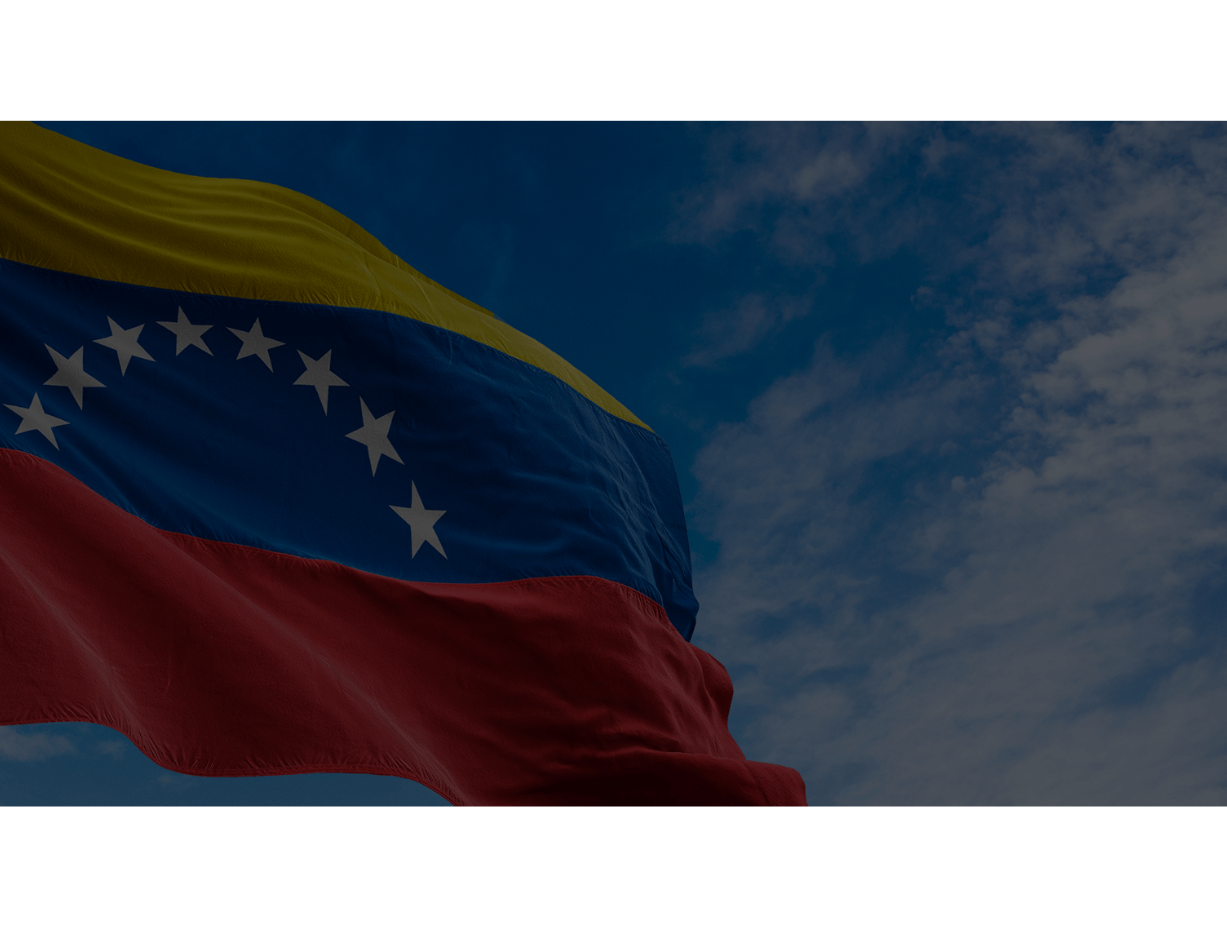
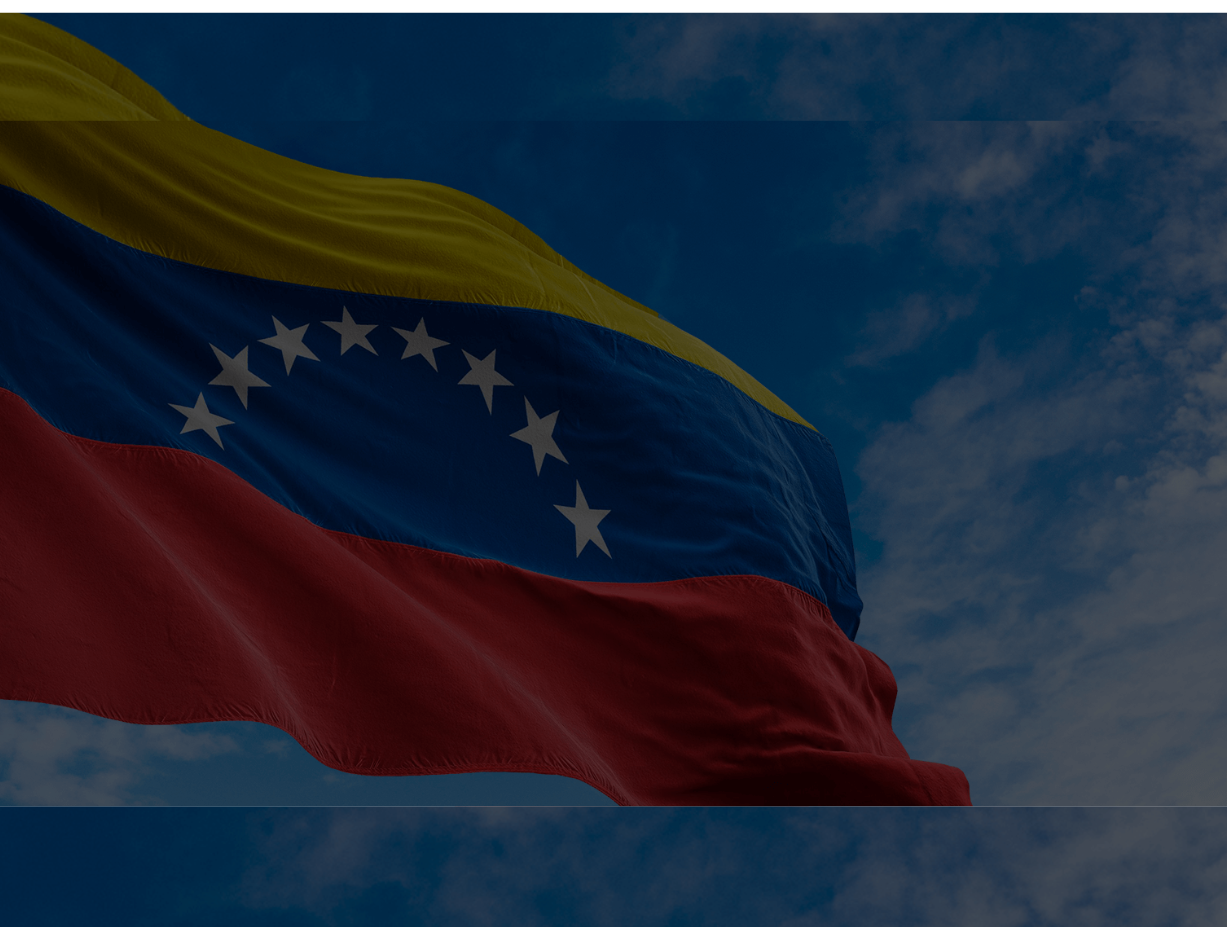
commit

diff --git a/src/index.css b/src/index.css
@@ -2,7 +2,7 @@ body{
   padding: 0;
   margin: 0;
   width: 100%;
-  background-image: url('/public/img/fon.png');
+  background-image: url('/public/img/fon3.png');
   background-repeat: no-repeat;
   background-position-y:-30px ;
   background-size:cover;
@@ -31,6 +31,7 @@ header{
 .home .card{
    background-color: #E6EAED;
    padding: 1rem;
+     box-shadow: rgba(0, 0, 0, 0.19) 0px 10px 20px, rgba(0, 0, 0, 0.23) 0px 6px 6px;
   
  
 

diff --git a/src/styles/App.css b/src/styles/App.css
@@ -9,7 +9,7 @@
     height: 70vh;
 
 
-  box-shadow: rgba(0, 0, 0, 0.19) 0px 10px 20px, rgba(0, 0, 0, 0.23) 0px 6px 6px;
+
 
 }
 
